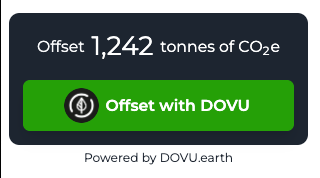
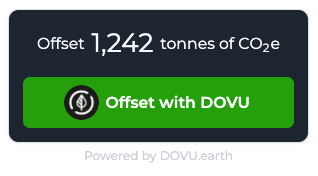
Update readme and assets to support new light and dark themes

diff --git a/examples/carbon-offset-widget/README.md b/examples/carbon-offset-widget/README.md
@@ -4,23 +4,33 @@
 
 An example of how to use the DOVU Carbon Offset Widget on any website can be found [here](/examples/carbon-offset-widget/carbonOffsetWidget.html).
 
+The widget can be embedded on any website using an iFrame. The iFrame src url should be:
+
+`https://dovu.market/partner/<PARTNER_ID>/embed?customerRef=<CUSTOMER_REF>`
+
+`PARTNER_ID` is required and is the ID of the partner who has reserved carbon with DOVU for their customers.
+
+`CUSTOMER_REF` is required and is your own internal identifier for the customer buying the carbon offset.
+
+## Customisation
+
 The widget can be customised using the following parameters on the iFrame src url:
 
 ### Specify a set amount of carbon to offset
 
-`https://dovu.market/partner/<PARTNER_ID>/embed?customerRef=<CUST_REF>&amount=<AMOUNT>`
+`https://dovu.market/partner/<PARTNER_ID>/embed?customerRef=<CUSTOMER_REF>&amount=<AMOUNT>`
 
 ![Amount](/examples/carbon-offset-widget/dovuCarbonOffsetWidgetAmount.png)
 
 ### Specify a suggested amount of carbon to offset that can be edited
 
-`https://dovu.market/partner/<PARTNER_ID>/embed?customerRef=<CUST_REF>&placeholderAmount=<AMOUNT>`
+`https://dovu.market/partner/<PARTNER_ID>/embed?customerRef=<CUSTOMER_REF>&placeholderAmount=<AMOUNT>`
 
 ![Placholder Amount](/examples/carbon-offset-widget/dovuCarbonOffsetWidgetPlaceholder.png)
 
 ### Pass no amount for the default behaviour
 
-`https://dovu.market/partner/<PARTNER_ID>/embed?customerRef=<CUST_REF>`
+`https://dovu.market/partner/<PARTNER_ID>/embed?customerRef=<CUSTOMER_REF>`
 
 ![No Amount](/examples/carbon-offset-widget/dovuCarbonOffsetWidgetDefault.png)
 
@@ -28,7 +38,9 @@ The widget can be customised using the following parameters on the iFrame src ur
 
 The widget can be customised to use a light or dark theme by adding the `theme` parameter to the iFrame src url:
 
-`https://dovu.market/partner/<PARTNER_ID>/embed?customerRef=<CUST_REF>&theme=<THEME>`
+`https://dovu.market/partner/<PARTNER_ID>/embed?customerRef=<CUSTOMER_REF>&theme=<THEME>`
+
+![Light Theme](/examples/carbon-offset-widget/dovuCarbonOffsetWidgetLight.png)
 
 | Parameter         | Type        | Description                                                                                                              | Example  |
 | ----------------- | ----------- | ------------------------------------------------------------------------------------------------------------------------ | -------- |
